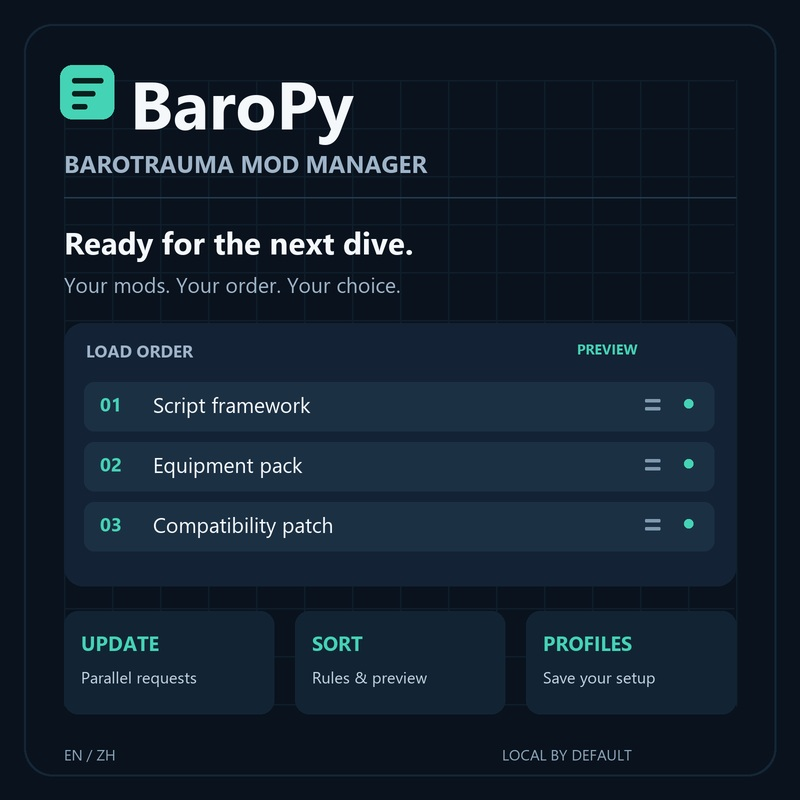
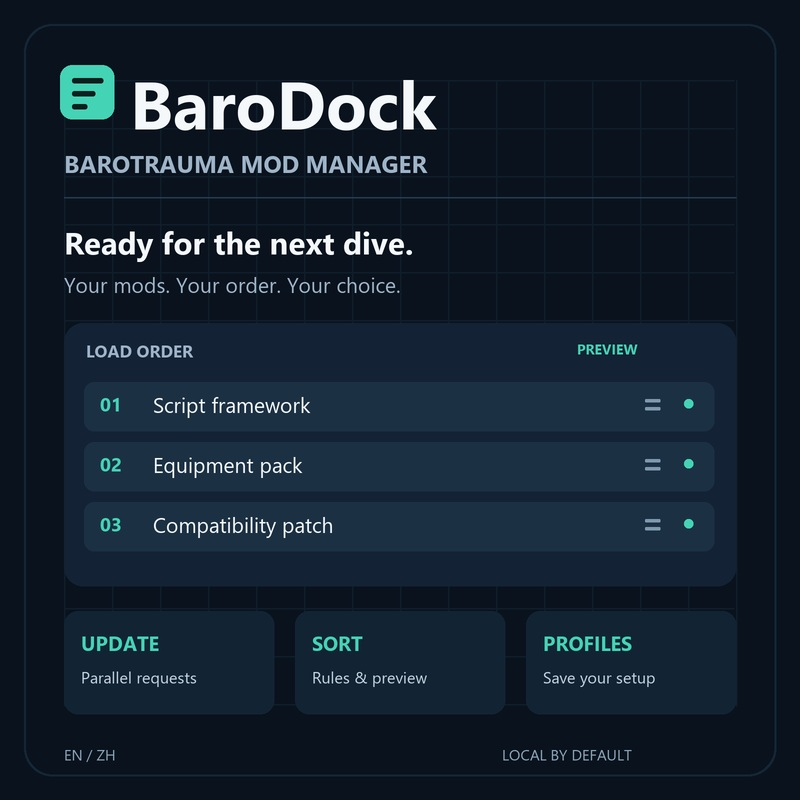
Rename tool to BaroDock and publish 0.7.1

Changed region(s): [[0.3438, 0.0938, 0.5625, 0.1875]]

diff --git a/mod_assistant/access.py b/mod_assistant/access.py
@@ -13,10 +13,10 @@ def access_report(env=None, language='zh'):
     player = str(env.player) if env else ('Not detected' if language == 'en' else '尚未检测')
     if language == 'en':
         return '\n'.join([
-            'BaroPy: access & privacy', '',
+            'BaroDock: access & privacy', '',
             'Default: local inspection. Startup and Refresh do not connect to Steam or fetch public metadata.',
             'Reads: the selected Barotrauma folder, this Windows user\'s Barotrauma mod folder, '
-            'Steam installation/library manifests for app 602960, and BaroPy settings.',
+            'Steam installation/library manifests for app 602960, and BaroDock settings.',
             'Steam installation discovery reads only Valve/Steam registry values. No registry writes.',
             'Game folder: '+game, 'Player folder: '+player, '',
             'Before changing files, only Barotrauma.exe and DedicatedServer.exe in the selected folder '
@@ -37,7 +37,7 @@ def access_report(env=None, language='zh'):
             'Details and limitations: ACCESS_AND_PRIVACY.md in the release and public source repository.'
         ])
     return '\n'.join([
-        'BaroPy：访问范围与隐私', '',
+        'BaroDock：访问范围与隐私', '',
         '默认仅本地检测；启动和重新检测不连接 Steam，也不获取公开模组资料。',
         '读取范围：所选潜渊症目录、当前 Windows 用户的游戏模组目录、Steam 的游戏 602960 '
         '安装/工坊清单，以及助手设置。定位 Steam 仅读取 Valve/Steam 注册表值，不写注册表。',

diff --git a/mod_assistant/main_ui.py b/mod_assistant/main_ui.py
@@ -60,7 +60,7 @@ class MainInterface:
         app=self.app
         header=self.frame(app.root,padx=22,pady=6); header.pack(fill='x')
         identity=self.frame(header); identity.pack(side='left')
-        self.identity_label=app.label(identity,'BaroPy',font=('Microsoft YaHei UI',20,'bold'))
+        self.identity_label=app.label(identity,'BaroDock',font=('Microsoft YaHei UI',20,'bold'))
         self.identity_label.pack(anchor='w')
         app.button(header,'外观设置',lambda:self.notebook.select(self.settings_page),busy=False).pack(side='right')
         self.language=tk.StringVar(value=LANGUAGES[app.locale.language])

diff --git a/mod_assistant/order_ui.py b/mod_assistant/order_ui.py
@@ -191,7 +191,7 @@ class OrderDialog:
             self.app.dialogs.showerror('规则无法应用',str(error),parent=self.window)
 
     def export_rules(self):
-        path=self.app.files.asksaveasfilename(title='导出排序规则',defaultextension='.json',initialfile='BaroPy-order-rules.json',parent=self.window)
+        path=self.app.files.asksaveasfilename(title='导出排序规则',defaultextension='.json',initialfile='BaroDock-order-rules.json',parent=self.window)
         if not path:return
         try:
             atomic_json(Path(path),{'schema':'baropy-order-rules-v1',**check_rules(self.rules)})

diff --git a/mod_assistant/app.py b/mod_assistant/app.py
@@ -42,7 +42,7 @@ BG, PANEL, TEXT, MUTED, ACCENT = "#0b1422", "#142237", "#e8f0fa", "#8fa6bf", "#5
 class App:
     def __init__(self, root, auto_scan=True):
         self.root = root
-        self.root.title(f"BaroPy · {VERSION}")
+        self.root.title(f"BaroDock · {VERSION}")
         self.root.configure(bg=BG)
         self.root.protocol("WM_DELETE_WINDOW", self.close)
         self.root.report_callback_exception = self.callback_error

diff --git a/mod_assistant/__init__.py b/mod_assistant/__init__.py
@@ -1,2 +1,2 @@
 """Barotrauma local workshop update assistant."""
-VERSION = "0.7.0"
+VERSION = "0.7.1"

diff --git a/CHANGELOG.md b/CHANGELOG.md
@@ -1,5 +1,16 @@
 # 版本记录
 
+## 0.7.1
+
+BaroPy is now **BaroDock**, with matching Chinese/English Workshop titles, application headings, access reports, guides, desktop shortcuts, screenshots and animated cover. This is the same standalone Barotrauma mod manager. The access restrictions and sorting improvements released in 0.7.0 remain in place.
+
+The executable name, preferences directory, repository URL and existing JSON rule schema are retained for upgrade compatibility. Existing exported rules continue to work. The desktop installer renames an old BaroPy shortcut only if it points to this tool and the new shortcut does not already exist; unrelated shortcuts are retained.
+
+After Steam downloads the update, close the old tool and run the desktop installer again. Chinese and English guides, access notes and SHA-256 checksums are included. Validation: 133 existing unit/isolated checks, packaged bilingual and three-theme checks, screenshot/layout checks and both desktop installers. This branding update does not add broader access or gameplay changes.
+
+中文：BaroPy 正式更名为 BaroDock，统一程序、工坊双语标题、指南、桌面入口和动态封面。保留程序文件名、设置目录、仓库链接及规则格式，老用户升级无需重新配置。访问范围限制和排序改进沿用 0.7.0。
+
+
 ## 0.7.0
 
 Community feedback identified unnecessary system access. This release removes system-wide process enumeration and automatic subscription operations, makes startup/Refresh local by default, explains online/LuaCs access before actions, and includes a bilingual access report and document. Ordinary desktop application; not an OS sandbox.

diff --git a/releases/v0.7.1.md b/releases/v0.7.1.md
@@ -1,0 +1,9 @@
+# BaroDock 0.7.1
+
+BaroPy is now **BaroDock**, with matching Chinese/English Workshop titles, application headings, access reports, guides, desktop shortcuts, screenshots and animated cover. This is the same standalone Barotrauma mod manager. The access restrictions and sorting improvements released in 0.7.0 remain in place.
+
+The executable name, preferences directory, repository URL and existing JSON rule schema are retained for upgrade compatibility. Existing exported rules continue to work. The desktop installer renames an old BaroPy shortcut only if it points to this tool and the new shortcut does not already exist; unrelated shortcuts are retained.
+
+After Steam downloads the update, close the old tool and run the desktop installer again. Chinese and English guides, access notes and SHA-256 checksums are included. Validation: 133 existing unit/isolated checks, packaged bilingual and three-theme checks, screenshot/layout checks and both desktop installers. This branding update does not add broader access or gameplay changes.
+
+中文：BaroPy 正式更名为 BaroDock，统一程序、工坊双语标题、指南、桌面入口和动态封面。保留程序文件名、设置目录、仓库链接及规则格式，老用户升级无需重新配置。访问范围限制和排序改进沿用 0.7.0。

diff --git a/README_EN.md b/README_EN.md
@@ -1,6 +1,6 @@
-# BaroPy | Barotrauma Mod Manager
+# BaroDock | Barotrauma Mod Manager
 
-Version **0.7.0** is a standalone mod manager for the Steam version of Barotrauma on **64-bit Windows**, with **English and Simplified Chinese** interfaces.
+Version **0.7.1** is a standalone mod manager for the Steam version of Barotrauma on **64-bit Windows**, with **English and Simplified Chinese** interfaces.
 
 [Download](https://github.com/laohei-moddeveloper/barotrauma-mod-assistant/releases/latest) · [Steam Workshop](https://steamcommunity.com/sharedfiles/filedetails/?id=3812360206&l=english) · [中文说明](使用说明.md)
 

diff --git a/使用说明.md b/使用说明.md
@@ -1,4 +1,4 @@
-# BaroPy｜潜渊症模组管理 0.7.0
+# BaroDock｜潜渊症模组管理 0.7.1
 
 双击 `BarotraumaModAssistant.exe`（本机构建也保留中文名称副本）。助手本身无需 Python 或 LuaCs；需要脚本的游戏模组可使用下方的一键安装功能。
 
